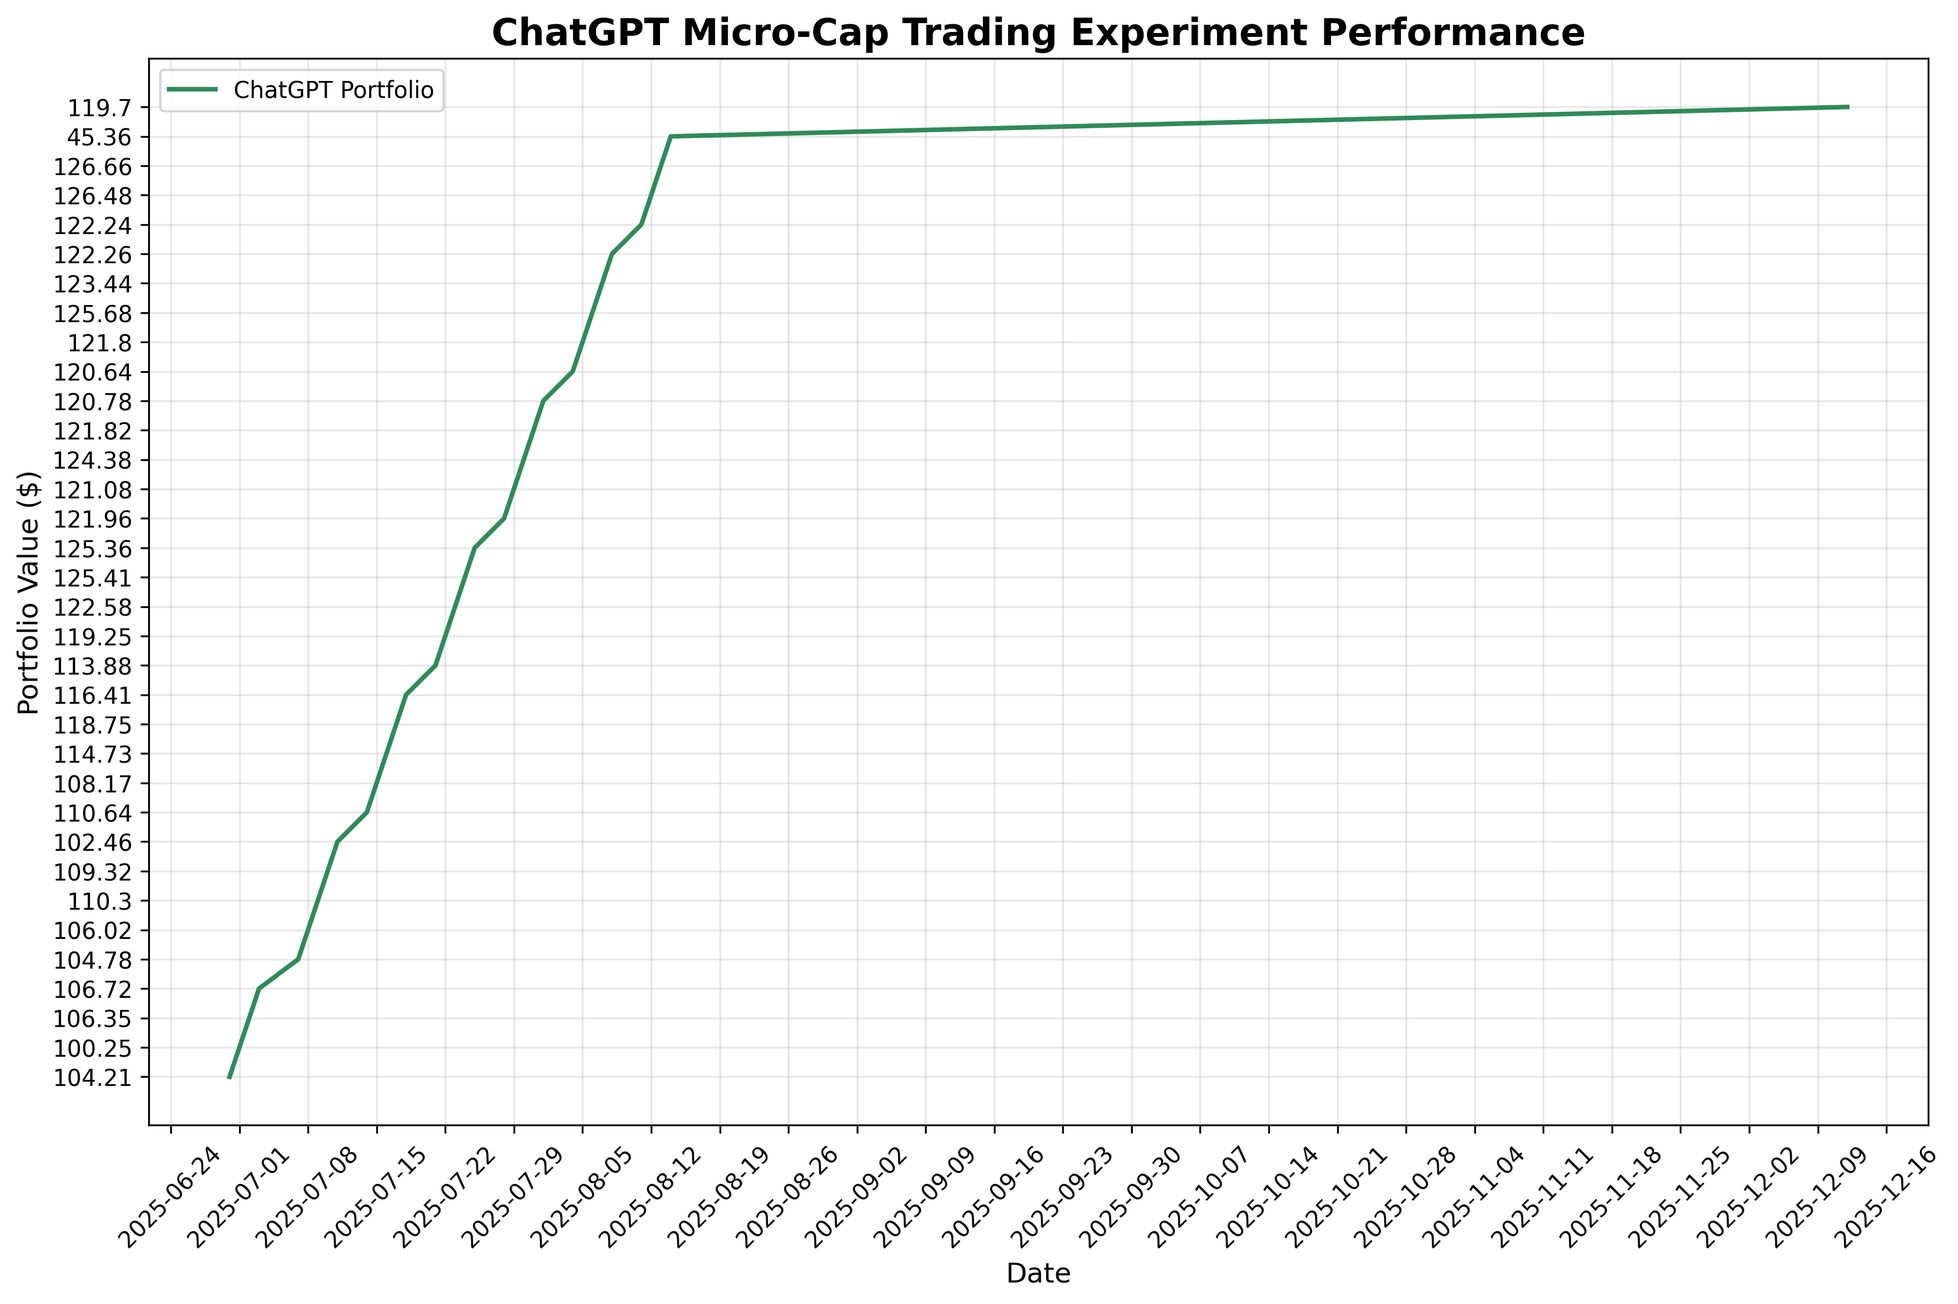
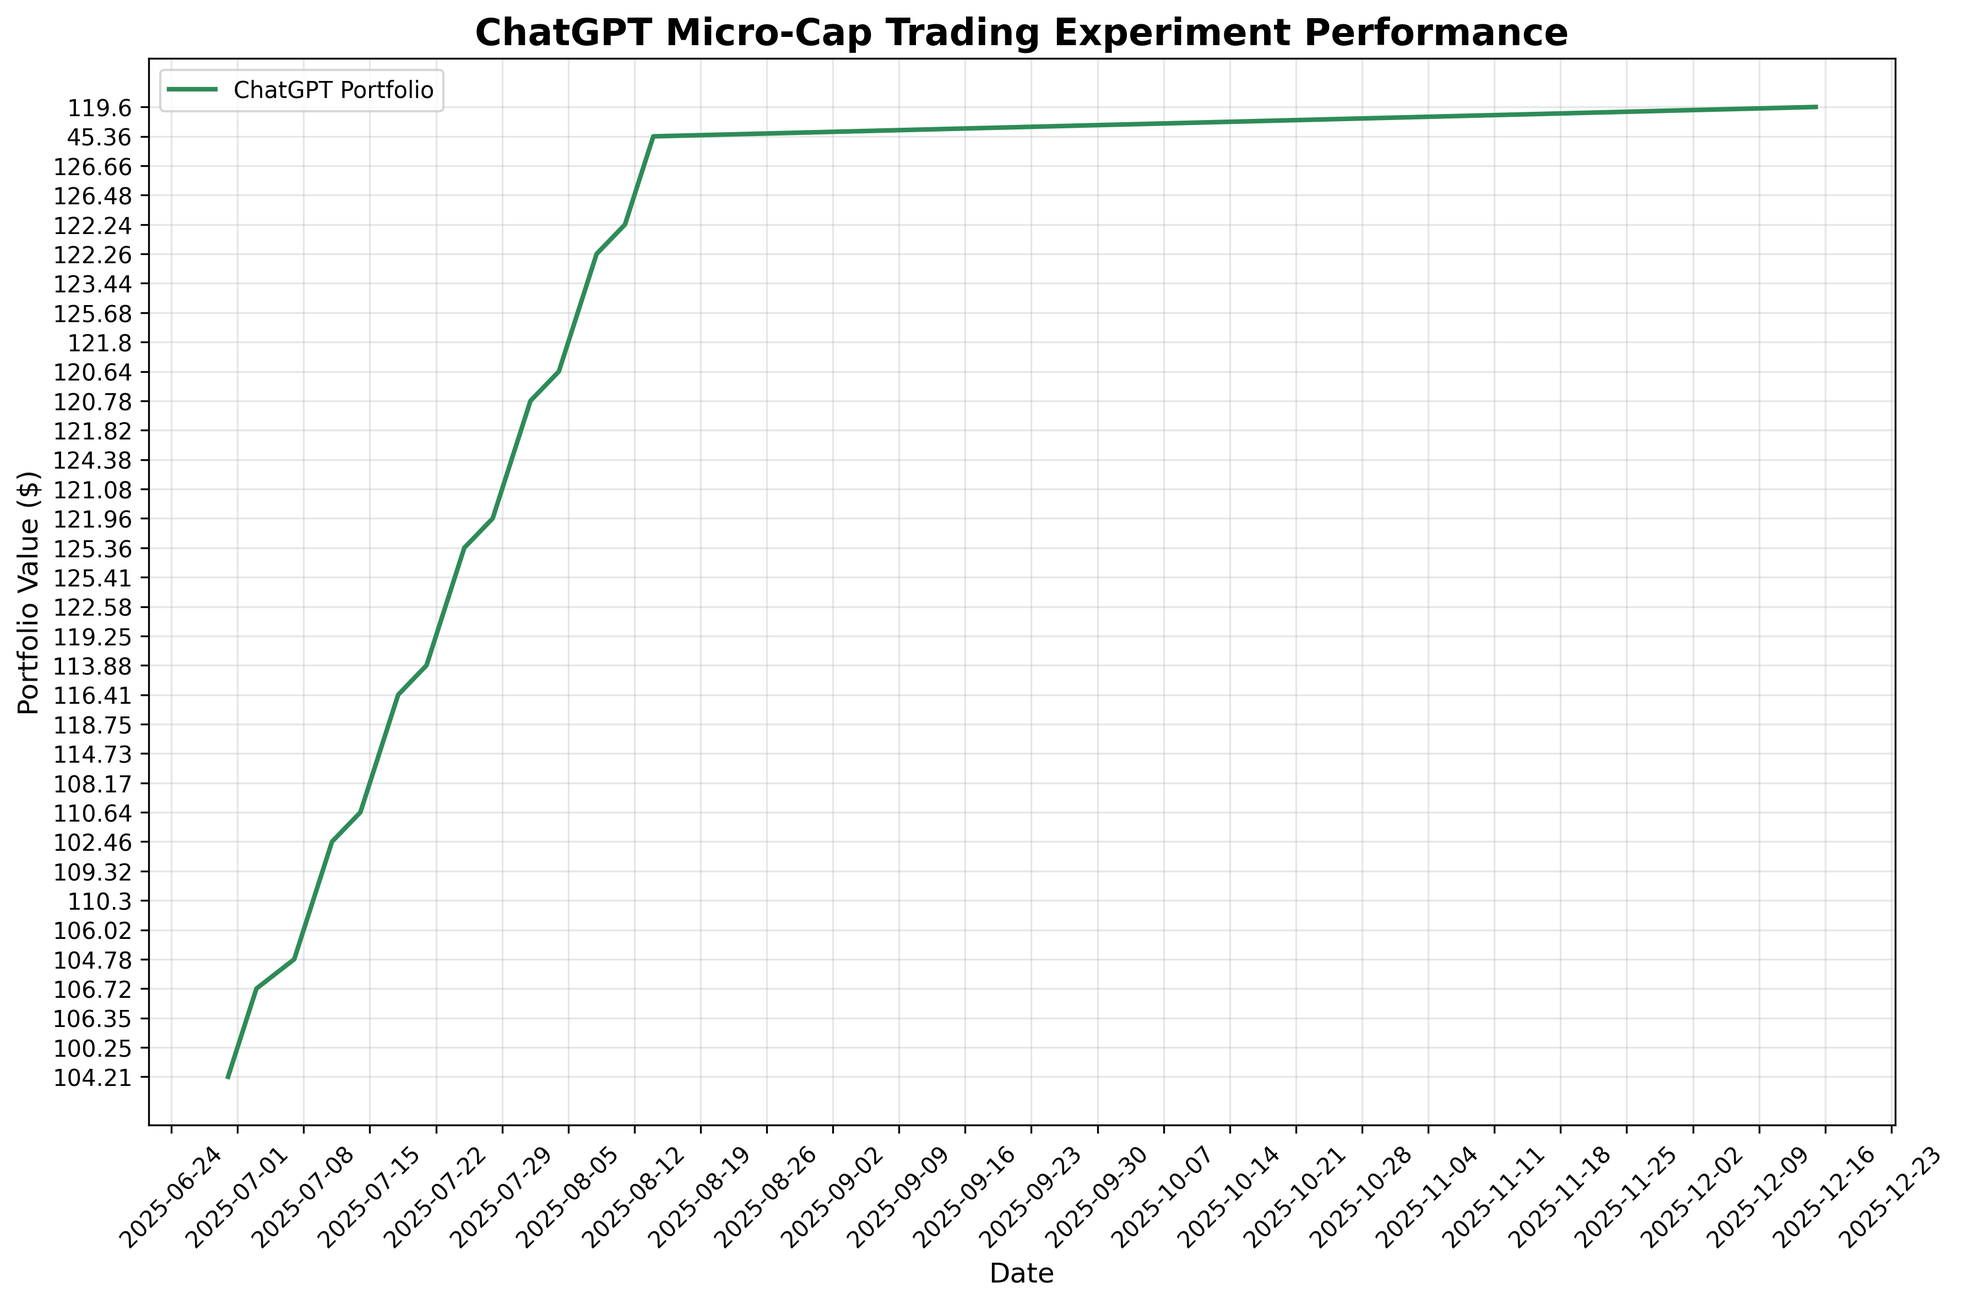
deploy: e15cad030d70fb3fbb51f9df6e22fa70c2f175c0

diff --git a/index.html b/index.html
@@ -105,7 +105,7 @@
                 <div class="stat-label">Total Trades</div>
             </div>
             <div class="stat-card">
-                <div class="stat-value" id="last-updated">2025-12-12</div>
+                <div class="stat-value" id="last-updated">2025-12-15</div>
                 <div class="stat-label">Last Updated</div>
             </div>
         </div>
@@ -160,7 +160,7 @@
     
     <script>
         // Portfolio data
-        const portfolioData = JSON.parse("[{&quot;Date&quot;: &quot;2025-08-11&quot;, &quot;Ticker&quot;: &quot;ABEO&quot;, &quot;Shares&quot;: 4.0, &quot;Buy Price&quot;: 5.77, &quot;Cost Basis&quot;: 23.08, &quot;Stop Loss&quot;: 4.9, &quot;Current Price&quot;: 6.28, &quot;Total Value&quot;: 25.12, &quot;PnL&quot;: 2.04, &quot;Action&quot;: &quot;HOLD&quot;, &quot;Cash Balance&quot;: NaN, &quot;Total Equity&quot;: NaN}, {&quot;Date&quot;: &quot;2025-08-11&quot;, &quot;Ticker&quot;: &quot;ACTU&quot;, &quot;Shares&quot;: 6.0, &quot;Buy Price&quot;: 5.75, &quot;Cost Basis&quot;: 34.5, &quot;Stop Loss&quot;: 4.89, &quot;Current Price&quot;: 8.01, &quot;Total Value&quot;: 48.06, &quot;PnL&quot;: 13.56, &quot;Action&quot;: &quot;HOLD&quot;, &quot;Cash Balance&quot;: NaN, &quot;Total Equity&quot;: NaN}, {&quot;Date&quot;: &quot;2025-08-11&quot;, &quot;Ticker&quot;: &quot;ESPR&quot;, &quot;Shares&quot;: 2.0, &quot;Buy Price&quot;: 1.91, &quot;Cost Basis&quot;: 3.82, &quot;Stop Loss&quot;: 1.6, &quot;Current Price&quot;: 1.85, &quot;Total Value&quot;: 3.7, &quot;PnL&quot;: -0.12, &quot;Action&quot;: &quot;HOLD&quot;, &quot;Cash Balance&quot;: NaN, &quot;Total Equity&quot;: NaN}, {&quot;Date&quot;: &quot;2025-08-11&quot;, &quot;Ticker&quot;: &quot;TOTAL&quot;, &quot;Shares&quot;: NaN, &quot;Buy Price&quot;: NaN, &quot;Cost Basis&quot;: NaN, &quot;Stop Loss&quot;: NaN, &quot;Current Price&quot;: NaN, &quot;Total Value&quot;: 76.88, &quot;PnL&quot;: 15.48, &quot;Action&quot;: NaN, &quot;Cash Balance&quot;: 45.36, &quot;Total Equity&quot;: &quot;122.24&quot;}, {&quot;Date&quot;: &quot;2025-08-12&quot;, &quot;Ticker&quot;: &quot;ABEO&quot;, &quot;Shares&quot;: 4.0, &quot;Buy Price&quot;: 5.77, &quot;Cost Basis&quot;: 23.08, &quot;Stop Loss&quot;: 4.9, &quot;Current Price&quot;: 6.38, &quot;Total Value&quot;: 25.52, &quot;PnL&quot;: 2.44, &quot;Action&quot;: &quot;HOLD&quot;, &quot;Cash Balance&quot;: NaN, &quot;Total Equity&quot;: NaN}, {&quot;Date&quot;: &quot;2025-08-12&quot;, &quot;Ticker&quot;: &quot;ACTU&quot;, &quot;Shares&quot;: 6.0, &quot;Buy Price&quot;: 5.75, &quot;Cost Basis&quot;: 34.5, &quot;Stop Loss&quot;: 4.89, &quot;Current Price&quot;: 8.67, &quot;Total Value&quot;: 52.02, &quot;PnL&quot;: 17.52, &quot;Action&quot;: &quot;HOLD&quot;, &quot;Cash Balance&quot;: NaN, &quot;Total Equity&quot;: NaN}, {&quot;Date&quot;: &quot;2025-08-12&quot;, &quot;Ticker&quot;: &quot;ESPR&quot;, &quot;Shares&quot;: 2.0, &quot;Buy Price&quot;: 1.91, &quot;Cost Basis&quot;: 3.82, &quot;Stop Loss&quot;: 1.6, &quot;Current Price&quot;: 1.79, &quot;Total Value&quot;: 3.58, &quot;PnL&quot;: -0.24, &quot;Action&quot;: &quot;HOLD&quot;, &quot;Cash Balance&quot;: NaN, &quot;Total Equity&quot;: NaN}, {&quot;Date&quot;: &quot;2025-08-12&quot;, &quot;Ticker&quot;: &quot;TOTAL&quot;, &quot;Shares&quot;: NaN, &quot;Buy Price&quot;: NaN, &quot;Cost Basis&quot;: NaN, &quot;Stop Loss&quot;: NaN, &quot;Current Price&quot;: NaN, &quot;Total Value&quot;: 81.12, &quot;PnL&quot;: 19.72, &quot;Action&quot;: NaN, &quot;Cash Balance&quot;: 45.36, &quot;Total Equity&quot;: &quot;126.48&quot;}, {&quot;Date&quot;: &quot;2025-08-13&quot;, &quot;Ticker&quot;: &quot;ABEO&quot;, &quot;Shares&quot;: 4.0, &quot;Buy Price&quot;: 5.77, &quot;Cost Basis&quot;: 23.08, &quot;Stop Loss&quot;: 4.9, &quot;Current Price&quot;: 6.56, &quot;Total Value&quot;: 26.24, &quot;PnL&quot;: 3.16, &quot;Action&quot;: &quot;HOLD&quot;, &quot;Cash Balance&quot;: NaN, &quot;Total Equity&quot;: NaN}, {&quot;Date&quot;: &quot;2025-08-13&quot;, &quot;Ticker&quot;: &quot;ACTU&quot;, &quot;Shares&quot;: 6.0, &quot;Buy Price&quot;: 5.75, &quot;Cost Basis&quot;: 34.5, &quot;Stop Loss&quot;: 4.89, &quot;Current Price&quot;: 8.53, &quot;Total Value&quot;: 51.18, &quot;PnL&quot;: 16.68, &quot;Action&quot;: &quot;HOLD&quot;, &quot;Cash Balance&quot;: NaN, &quot;Total Equity&quot;: NaN}, {&quot;Date&quot;: &quot;2025-08-13&quot;, &quot;Ticker&quot;: &quot;ESPR&quot;, &quot;Shares&quot;: 2.0, &quot;Buy Price&quot;: 1.91, &quot;Cost Basis&quot;: 3.82, &quot;Stop Loss&quot;: 1.6, &quot;Current Price&quot;: 1.94, &quot;Total Value&quot;: 3.88, &quot;PnL&quot;: 0.06, &quot;Action&quot;: &quot;HOLD&quot;, &quot;Cash Balance&quot;: NaN, &quot;Total Equity&quot;: NaN}, {&quot;Date&quot;: &quot;2025-08-13&quot;, &quot;Ticker&quot;: &quot;TOTAL&quot;, &quot;Shares&quot;: NaN, &quot;Buy Price&quot;: NaN, &quot;Cost Basis&quot;: NaN, &quot;Stop Loss&quot;: NaN, &quot;Current Price&quot;: NaN, &quot;Total Value&quot;: 81.3, &quot;PnL&quot;: 19.9, &quot;Action&quot;: NaN, &quot;Cash Balance&quot;: 45.36, &quot;Total Equity&quot;: &quot;126.66&quot;}, {&quot;Date&quot;: &quot;2025-08-14&quot;, &quot;Ticker&quot;: &quot;ABEO&quot;, &quot;Shares&quot;: 4.0, &quot;Buy Price&quot;: 5.77, &quot;Cost Basis&quot;: 23.08, &quot;Stop Loss&quot;: 4.9, &quot;Current Price&quot;: NaN, &quot;Total Value&quot;: NaN, &quot;PnL&quot;: NaN, &quot;Action&quot;: &quot;NO DATA&quot;, &quot;Cash Balance&quot;: NaN, &quot;Total Equity&quot;: NaN}, {&quot;Date&quot;: &quot;2025-08-14&quot;, &quot;Ticker&quot;: &quot;ACTU&quot;, &quot;Shares&quot;: 6.0, &quot;Buy Price&quot;: 5.75, &quot;Cost Basis&quot;: 34.5, &quot;Stop Loss&quot;: 4.89, &quot;Current Price&quot;: NaN, &quot;Total Value&quot;: NaN, &quot;PnL&quot;: NaN, &quot;Action&quot;: &quot;NO DATA&quot;, &quot;Cash Balance&quot;: NaN, &quot;Total Equity&quot;: NaN}, {&quot;Date&quot;: &quot;2025-08-14&quot;, &quot;Ticker&quot;: &quot;ESPR&quot;, &quot;Shares&quot;: 2.0, &quot;Buy Price&quot;: 1.91, &quot;Cost Basis&quot;: 3.82, &quot;Stop Loss&quot;: 1.6, &quot;Current Price&quot;: NaN, &quot;Total Value&quot;: NaN, &quot;PnL&quot;: NaN, &quot;Action&quot;: &quot;NO DATA&quot;, &quot;Cash Balance&quot;: NaN, &quot;Total Equity&quot;: NaN}, {&quot;Date&quot;: &quot;2025-08-14&quot;, &quot;Ticker&quot;: &quot;TOTAL&quot;, &quot;Shares&quot;: NaN, &quot;Buy Price&quot;: NaN, &quot;Cost Basis&quot;: NaN, &quot;Stop Loss&quot;: NaN, &quot;Current Price&quot;: NaN, &quot;Total Value&quot;: 0.0, &quot;PnL&quot;: 0.0, &quot;Action&quot;: NaN, &quot;Cash Balance&quot;: 45.36, &quot;Total Equity&quot;: &quot;45.36&quot;}, {&quot;Date&quot;: &quot;2025-12-12&quot;, &quot;Ticker&quot;: &quot;ABEO&quot;, &quot;Shares&quot;: 4.0, &quot;Buy Price&quot;: 5.77, &quot;Cost Basis&quot;: 23.08, &quot;Stop Loss&quot;: 4.9, &quot;Current Price&quot;: 5.47, &quot;Total Value&quot;: 21.88, &quot;PnL&quot;: -1.2, &quot;Action&quot;: &quot;HOLD&quot;, &quot;Cash Balance&quot;: NaN, &quot;Total Equity&quot;: NaN}, {&quot;Date&quot;: &quot;2025-12-12&quot;, &quot;Ticker&quot;: &quot;ACTU&quot;, &quot;Shares&quot;: 6.0, &quot;Buy Price&quot;: 5.75, &quot;Cost Basis&quot;: 34.5, &quot;Stop Loss&quot;: 4.89, &quot;Current Price&quot;: 7.38, &quot;Total Value&quot;: 44.28, &quot;PnL&quot;: 9.78, &quot;Action&quot;: &quot;HOLD&quot;, &quot;Cash Balance&quot;: NaN, &quot;Total Equity&quot;: NaN}, {&quot;Date&quot;: &quot;2025-12-12&quot;, &quot;Ticker&quot;: &quot;ESPR&quot;, &quot;Shares&quot;: 2.0, &quot;Buy Price&quot;: 1.91, &quot;Cost Basis&quot;: 3.82, &quot;Stop Loss&quot;: 1.6, &quot;Current Price&quot;: 4.09, &quot;Total Value&quot;: 8.18, &quot;PnL&quot;: 4.36, &quot;Action&quot;: &quot;HOLD&quot;, &quot;Cash Balance&quot;: NaN, &quot;Total Equity&quot;: NaN}, {&quot;Date&quot;: &quot;2025-12-12&quot;, &quot;Ticker&quot;: &quot;TOTAL&quot;, &quot;Shares&quot;: NaN, &quot;Buy Price&quot;: NaN, &quot;Cost Basis&quot;: NaN, &quot;Stop Loss&quot;: NaN, &quot;Current Price&quot;: NaN, &quot;Total Value&quot;: 74.34, &quot;PnL&quot;: 12.94, &quot;Action&quot;: NaN, &quot;Cash Balance&quot;: 45.36, &quot;Total Equity&quot;: &quot;119.7&quot;}]");
+        const portfolioData = JSON.parse("[{&quot;Date&quot;: &quot;2025-08-11&quot;, &quot;Ticker&quot;: &quot;ABEO&quot;, &quot;Shares&quot;: 4.0, &quot;Buy Price&quot;: 5.77, &quot;Cost Basis&quot;: 23.08, &quot;Stop Loss&quot;: 4.9, &quot;Current Price&quot;: 6.28, &quot;Total Value&quot;: 25.12, &quot;PnL&quot;: 2.04, &quot;Action&quot;: &quot;HOLD&quot;, &quot;Cash Balance&quot;: NaN, &quot;Total Equity&quot;: NaN}, {&quot;Date&quot;: &quot;2025-08-11&quot;, &quot;Ticker&quot;: &quot;ACTU&quot;, &quot;Shares&quot;: 6.0, &quot;Buy Price&quot;: 5.75, &quot;Cost Basis&quot;: 34.5, &quot;Stop Loss&quot;: 4.89, &quot;Current Price&quot;: 8.01, &quot;Total Value&quot;: 48.06, &quot;PnL&quot;: 13.56, &quot;Action&quot;: &quot;HOLD&quot;, &quot;Cash Balance&quot;: NaN, &quot;Total Equity&quot;: NaN}, {&quot;Date&quot;: &quot;2025-08-11&quot;, &quot;Ticker&quot;: &quot;ESPR&quot;, &quot;Shares&quot;: 2.0, &quot;Buy Price&quot;: 1.91, &quot;Cost Basis&quot;: 3.82, &quot;Stop Loss&quot;: 1.6, &quot;Current Price&quot;: 1.85, &quot;Total Value&quot;: 3.7, &quot;PnL&quot;: -0.12, &quot;Action&quot;: &quot;HOLD&quot;, &quot;Cash Balance&quot;: NaN, &quot;Total Equity&quot;: NaN}, {&quot;Date&quot;: &quot;2025-08-11&quot;, &quot;Ticker&quot;: &quot;TOTAL&quot;, &quot;Shares&quot;: NaN, &quot;Buy Price&quot;: NaN, &quot;Cost Basis&quot;: NaN, &quot;Stop Loss&quot;: NaN, &quot;Current Price&quot;: NaN, &quot;Total Value&quot;: 76.88, &quot;PnL&quot;: 15.48, &quot;Action&quot;: NaN, &quot;Cash Balance&quot;: 45.36, &quot;Total Equity&quot;: &quot;122.24&quot;}, {&quot;Date&quot;: &quot;2025-08-12&quot;, &quot;Ticker&quot;: &quot;ABEO&quot;, &quot;Shares&quot;: 4.0, &quot;Buy Price&quot;: 5.77, &quot;Cost Basis&quot;: 23.08, &quot;Stop Loss&quot;: 4.9, &quot;Current Price&quot;: 6.38, &quot;Total Value&quot;: 25.52, &quot;PnL&quot;: 2.44, &quot;Action&quot;: &quot;HOLD&quot;, &quot;Cash Balance&quot;: NaN, &quot;Total Equity&quot;: NaN}, {&quot;Date&quot;: &quot;2025-08-12&quot;, &quot;Ticker&quot;: &quot;ACTU&quot;, &quot;Shares&quot;: 6.0, &quot;Buy Price&quot;: 5.75, &quot;Cost Basis&quot;: 34.5, &quot;Stop Loss&quot;: 4.89, &quot;Current Price&quot;: 8.67, &quot;Total Value&quot;: 52.02, &quot;PnL&quot;: 17.52, &quot;Action&quot;: &quot;HOLD&quot;, &quot;Cash Balance&quot;: NaN, &quot;Total Equity&quot;: NaN}, {&quot;Date&quot;: &quot;2025-08-12&quot;, &quot;Ticker&quot;: &quot;ESPR&quot;, &quot;Shares&quot;: 2.0, &quot;Buy Price&quot;: 1.91, &quot;Cost Basis&quot;: 3.82, &quot;Stop Loss&quot;: 1.6, &quot;Current Price&quot;: 1.79, &quot;Total Value&quot;: 3.58, &quot;PnL&quot;: -0.24, &quot;Action&quot;: &quot;HOLD&quot;, &quot;Cash Balance&quot;: NaN, &quot;Total Equity&quot;: NaN}, {&quot;Date&quot;: &quot;2025-08-12&quot;, &quot;Ticker&quot;: &quot;TOTAL&quot;, &quot;Shares&quot;: NaN, &quot;Buy Price&quot;: NaN, &quot;Cost Basis&quot;: NaN, &quot;Stop Loss&quot;: NaN, &quot;Current Price&quot;: NaN, &quot;Total Value&quot;: 81.12, &quot;PnL&quot;: 19.72, &quot;Action&quot;: NaN, &quot;Cash Balance&quot;: 45.36, &quot;Total Equity&quot;: &quot;126.48&quot;}, {&quot;Date&quot;: &quot;2025-08-13&quot;, &quot;Ticker&quot;: &quot;ABEO&quot;, &quot;Shares&quot;: 4.0, &quot;Buy Price&quot;: 5.77, &quot;Cost Basis&quot;: 23.08, &quot;Stop Loss&quot;: 4.9, &quot;Current Price&quot;: 6.56, &quot;Total Value&quot;: 26.24, &quot;PnL&quot;: 3.16, &quot;Action&quot;: &quot;HOLD&quot;, &quot;Cash Balance&quot;: NaN, &quot;Total Equity&quot;: NaN}, {&quot;Date&quot;: &quot;2025-08-13&quot;, &quot;Ticker&quot;: &quot;ACTU&quot;, &quot;Shares&quot;: 6.0, &quot;Buy Price&quot;: 5.75, &quot;Cost Basis&quot;: 34.5, &quot;Stop Loss&quot;: 4.89, &quot;Current Price&quot;: 8.53, &quot;Total Value&quot;: 51.18, &quot;PnL&quot;: 16.68, &quot;Action&quot;: &quot;HOLD&quot;, &quot;Cash Balance&quot;: NaN, &quot;Total Equity&quot;: NaN}, {&quot;Date&quot;: &quot;2025-08-13&quot;, &quot;Ticker&quot;: &quot;ESPR&quot;, &quot;Shares&quot;: 2.0, &quot;Buy Price&quot;: 1.91, &quot;Cost Basis&quot;: 3.82, &quot;Stop Loss&quot;: 1.6, &quot;Current Price&quot;: 1.94, &quot;Total Value&quot;: 3.88, &quot;PnL&quot;: 0.06, &quot;Action&quot;: &quot;HOLD&quot;, &quot;Cash Balance&quot;: NaN, &quot;Total Equity&quot;: NaN}, {&quot;Date&quot;: &quot;2025-08-13&quot;, &quot;Ticker&quot;: &quot;TOTAL&quot;, &quot;Shares&quot;: NaN, &quot;Buy Price&quot;: NaN, &quot;Cost Basis&quot;: NaN, &quot;Stop Loss&quot;: NaN, &quot;Current Price&quot;: NaN, &quot;Total Value&quot;: 81.3, &quot;PnL&quot;: 19.9, &quot;Action&quot;: NaN, &quot;Cash Balance&quot;: 45.36, &quot;Total Equity&quot;: &quot;126.66&quot;}, {&quot;Date&quot;: &quot;2025-08-14&quot;, &quot;Ticker&quot;: &quot;ABEO&quot;, &quot;Shares&quot;: 4.0, &quot;Buy Price&quot;: 5.77, &quot;Cost Basis&quot;: 23.08, &quot;Stop Loss&quot;: 4.9, &quot;Current Price&quot;: NaN, &quot;Total Value&quot;: NaN, &quot;PnL&quot;: NaN, &quot;Action&quot;: &quot;NO DATA&quot;, &quot;Cash Balance&quot;: NaN, &quot;Total Equity&quot;: NaN}, {&quot;Date&quot;: &quot;2025-08-14&quot;, &quot;Ticker&quot;: &quot;ACTU&quot;, &quot;Shares&quot;: 6.0, &quot;Buy Price&quot;: 5.75, &quot;Cost Basis&quot;: 34.5, &quot;Stop Loss&quot;: 4.89, &quot;Current Price&quot;: NaN, &quot;Total Value&quot;: NaN, &quot;PnL&quot;: NaN, &quot;Action&quot;: &quot;NO DATA&quot;, &quot;Cash Balance&quot;: NaN, &quot;Total Equity&quot;: NaN}, {&quot;Date&quot;: &quot;2025-08-14&quot;, &quot;Ticker&quot;: &quot;ESPR&quot;, &quot;Shares&quot;: 2.0, &quot;Buy Price&quot;: 1.91, &quot;Cost Basis&quot;: 3.82, &quot;Stop Loss&quot;: 1.6, &quot;Current Price&quot;: NaN, &quot;Total Value&quot;: NaN, &quot;PnL&quot;: NaN, &quot;Action&quot;: &quot;NO DATA&quot;, &quot;Cash Balance&quot;: NaN, &quot;Total Equity&quot;: NaN}, {&quot;Date&quot;: &quot;2025-08-14&quot;, &quot;Ticker&quot;: &quot;TOTAL&quot;, &quot;Shares&quot;: NaN, &quot;Buy Price&quot;: NaN, &quot;Cost Basis&quot;: NaN, &quot;Stop Loss&quot;: NaN, &quot;Current Price&quot;: NaN, &quot;Total Value&quot;: 0.0, &quot;PnL&quot;: 0.0, &quot;Action&quot;: NaN, &quot;Cash Balance&quot;: 45.36, &quot;Total Equity&quot;: &quot;45.36&quot;}, {&quot;Date&quot;: &quot;2025-12-15&quot;, &quot;Ticker&quot;: &quot;ABEO&quot;, &quot;Shares&quot;: 4.0, &quot;Buy Price&quot;: 5.77, &quot;Cost Basis&quot;: 23.08, &quot;Stop Loss&quot;: 4.9, &quot;Current Price&quot;: 5.32, &quot;Total Value&quot;: 21.28, &quot;PnL&quot;: -1.8, &quot;Action&quot;: &quot;HOLD&quot;, &quot;Cash Balance&quot;: NaN, &quot;Total Equity&quot;: NaN}, {&quot;Date&quot;: &quot;2025-12-15&quot;, &quot;Ticker&quot;: &quot;ACTU&quot;, &quot;Shares&quot;: 6.0, &quot;Buy Price&quot;: 5.75, &quot;Cost Basis&quot;: 34.5, &quot;Stop Loss&quot;: 4.89, &quot;Current Price&quot;: 7.57, &quot;Total Value&quot;: 45.42, &quot;PnL&quot;: 10.92, &quot;Action&quot;: &quot;HOLD&quot;, &quot;Cash Balance&quot;: NaN, &quot;Total Equity&quot;: NaN}, {&quot;Date&quot;: &quot;2025-12-15&quot;, &quot;Ticker&quot;: &quot;ESPR&quot;, &quot;Shares&quot;: 2.0, &quot;Buy Price&quot;: 1.91, &quot;Cost Basis&quot;: 3.82, &quot;Stop Loss&quot;: 1.6, &quot;Current Price&quot;: 3.77, &quot;Total Value&quot;: 7.54, &quot;PnL&quot;: 3.72, &quot;Action&quot;: &quot;HOLD&quot;, &quot;Cash Balance&quot;: NaN, &quot;Total Equity&quot;: NaN}, {&quot;Date&quot;: &quot;2025-12-15&quot;, &quot;Ticker&quot;: &quot;TOTAL&quot;, &quot;Shares&quot;: NaN, &quot;Buy Price&quot;: NaN, &quot;Cost Basis&quot;: NaN, &quot;Stop Loss&quot;: NaN, &quot;Current Price&quot;: NaN, &quot;Total Value&quot;: 74.24, &quot;PnL&quot;: 12.84, &quot;Action&quot;: NaN, &quot;Cash Balance&quot;: 45.36, &quot;Total Equity&quot;: &quot;119.6&quot;}]");
         const tradeData = JSON.parse("[{&quot;Date&quot;: &quot;2025-07-07&quot;, &quot;Ticker&quot;: &quot;CSAI&quot;, &quot;Shares Bought&quot;: NaN, &quot;Buy Price&quot;: NaN, &quot;Cost Basis&quot;: 1.9, &quot;PnL&quot;: 5.7, &quot;Reason&quot;: &quot;MANUAL SELL - Rotated into AZTR&quot;, &quot;Shares Sold&quot;: 15.0, &quot;Sell Price&quot;: 2.28}, {&quot;Date&quot;: &quot;2025-07-08&quot;, &quot;Ticker&quot;: &quot;IINN&quot;, &quot;Shares Bought&quot;: 20.0, &quot;Buy Price&quot;: 1.5, &quot;Cost Basis&quot;: 30.0, &quot;PnL&quot;: 0.0, &quot;Reason&quot;: &quot;MANUAL BUY - New position&quot;, &quot;Shares Sold&quot;: NaN, &quot;Sell Price&quot;: NaN}, {&quot;Date&quot;: &quot;2025-07-21&quot;, &quot;Ticker&quot;: &quot;CADL&quot;, &quot;Shares Bought&quot;: NaN, &quot;Buy Price&quot;: NaN, &quot;Cost Basis&quot;: 25.2, &quot;PnL&quot;: 8.5, &quot;Reason&quot;: &quot;MANUAL SELL - GAIN CAPITAL FOR ACTU&quot;, &quot;Shares Sold&quot;: 5.0, &quot;Sell Price&quot;: 6.59}, {&quot;Date&quot;: &quot;2025-07-21&quot;, &quot;Ticker&quot;: &quot;ACTU&quot;, &quot;Shares Bought&quot;: 6.0, &quot;Buy Price&quot;: 5.75, &quot;Cost Basis&quot;: 34.5, &quot;PnL&quot;: 0.0, &quot;Reason&quot;: &quot;MANUAL BUY - New position&quot;, &quot;Shares Sold&quot;: NaN, &quot;Sell Price&quot;: NaN}, {&quot;Date&quot;: &quot;2025-07-28&quot;, &quot;Ticker&quot;: &quot;IINN&quot;, &quot;Shares Bought&quot;: NaN, &quot;Buy Price&quot;: NaN, &quot;Cost Basis&quot;: 9.0, &quot;PnL&quot;: -0.5400000000000009, &quot;Reason&quot;: &quot;MANUAL SELL - POSITION REDUCTION&quot;, &quot;Shares Sold&quot;: 6.0, &quot;Sell Price&quot;: 1.41}, {&quot;Date&quot;: &quot;2025-07-29&quot;, &quot;Ticker&quot;: &quot;AZTR&quot;, &quot;Shares Bought&quot;: NaN, &quot;Buy Price&quot;: NaN, &quot;Cost Basis&quot;: 13.75, &quot;PnL&quot;: -2.75, &quot;Reason&quot;: &quot;MANUAL SELL - DILUTION RISK&quot;, &quot;Shares Sold&quot;: 55.0, &quot;Sell Price&quot;: 0.2}, {&quot;Date&quot;: &quot;2025-08-01&quot;, &quot;Ticker&quot;: &quot;IINN&quot;, &quot;Shares Bought&quot;: 2.0, &quot;Buy Price&quot;: 1.74, &quot;Cost Basis&quot;: 3.48, &quot;PnL&quot;: 0.0, &quot;Reason&quot;: &quot;MANUAL BUY - New position&quot;, &quot;Shares Sold&quot;: NaN, &quot;Sell Price&quot;: NaN}, {&quot;Date&quot;: &quot;2025-08-01&quot;, &quot;Ticker&quot;: &quot;ABEO&quot;, &quot;Shares Bought&quot;: NaN, &quot;Buy Price&quot;: NaN, &quot;Cost Basis&quot;: 11.54, &quot;PnL&quot;: 1.200000000000001, &quot;Reason&quot;: &quot;MANUAL SELL - TRIM AFTER SUPPORT LOSS&quot;, &quot;Shares Sold&quot;: 2.0, &quot;Sell Price&quot;: 6.37}, {&quot;Date&quot;: &quot;2025-08-07&quot;, &quot;Ticker&quot;: &quot;ESPR&quot;, &quot;Shares Bought&quot;: 2.0, &quot;Buy Price&quot;: 1.91, &quot;Cost Basis&quot;: 3.82, &quot;PnL&quot;: 0.0, &quot;Reason&quot;: &quot;MANUAL BUY - New position&quot;, &quot;Shares Sold&quot;: NaN, &quot;Sell Price&quot;: NaN}, {&quot;Date&quot;: &quot;2025-08-08&quot;, &quot;Ticker&quot;: &quot;IINN&quot;, &quot;Shares Bought&quot;: NaN, &quot;Buy Price&quot;: NaN, &quot;Cost Basis&quot;: 1.5, &quot;PnL&quot;: -6.4, &quot;Reason&quot;: &quot;AUTOMATED SELL - STOPLOSS TRIGGERED&quot;, &quot;Shares Sold&quot;: 16.0, &quot;Sell Price&quot;: 1.1}]");
         
         // Update total equity
